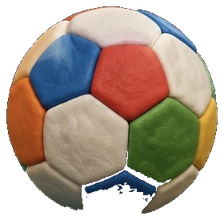
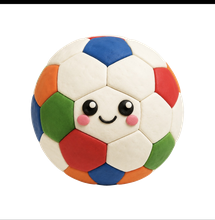
Atualiza a atividade

diff --git a/index.html b/index.html
@@ -856,7 +856,8 @@ h1{font-size:clamp(22px,6.4vw,34px);font-weight:700;color:#fff;margin:6px auto 2
 
 .mec-bater-silabas .bsBatida{width:54px;height:54px;margin:4px;border-radius:50%;background:#ffd54a; overflow:hidden; display:-webkit-box;display:flex;-webkit-box-align:center;align-items:center; -webkit-box-pack:center;justify-content:center; -webkit-box-shadow:0 4px 0 #c9a52f;box-shadow:0 4px 0 #c9a52f; -webkit-animation:kf-bater-silabas-bsPop .28s;animation:kf-bater-silabas-bsPop .28s}
 
-.mec-bater-silabas .bsBatida img{width:84%;height:84%;object-fit:contain}
+/* ⚠⚠ LICAO PAGA (Marcos, set/2026, jogando): *"as imagens bola e elefante aparecem faltando partes"* — e, quando eu mostrei os arquivos, ele foi preciso: *"nas imagens que mostrou esta certo mas NA ATIVIDADE aparecem faltando"*. O arquivo estava perfeito; quem cortava era esta regra. GEOMETRIA: o container e um CIRCULO (border-radius:50% + overflow:hidden), mas o `object-fit:contain` encaixa a figura no QUADRADO. O circulo entao come os CANTOS desse quadrado — e e justamente nos cantos que ficam a cauda do rato, as orelhas do elefante, a curva da bola. A maior figura que cabe INTEIRA num circulo e o quadrado inscrito, de lado 1/raiz(2) = 70,7% do diametro. 84% estourava em 13 pontos percentuais, e a crianca via o bicho sem pedaco. */
+.mec-bater-silabas .bsBatida img{width:68%;height:68%;object-fit:contain}
 
 .mec-bater-silabas .bsBatida.eco{background:#f6c23a;-webkit-transform:scale(1.18);transform:scale(1.18)}
 

diff --git a/sw.js b/sw.js
@@ -3,7 +3,7 @@
    ao index.html do cache em vez da "pagina sem conexao"); CACHE PRIMEIRO
    em imagem/audio. O HASH no nome do cache troca a cada build. */
 var PREFIXO="pw-";
-var CACHE=PREFIXO+"d4a72a2895";
+var CACHE=PREFIXO+"e199afa09d";
 var ATIVOS=["./","./index.html"];
 self.addEventListener("install",function(e){self.skipWaiting();e.waitUntil(caches.open(CACHE).then(function(c){return c.addAll(ATIVOS).catch(function(){});}));});
 self.addEventListener("activate",function(e){e.waitUntil(caches.keys().then(function(ks){return Promise.all(ks.map(function(k){if(k!==CACHE&&k.indexOf(PREFIXO)===0)return caches.delete(k);}));}));self.clients.claim();});
